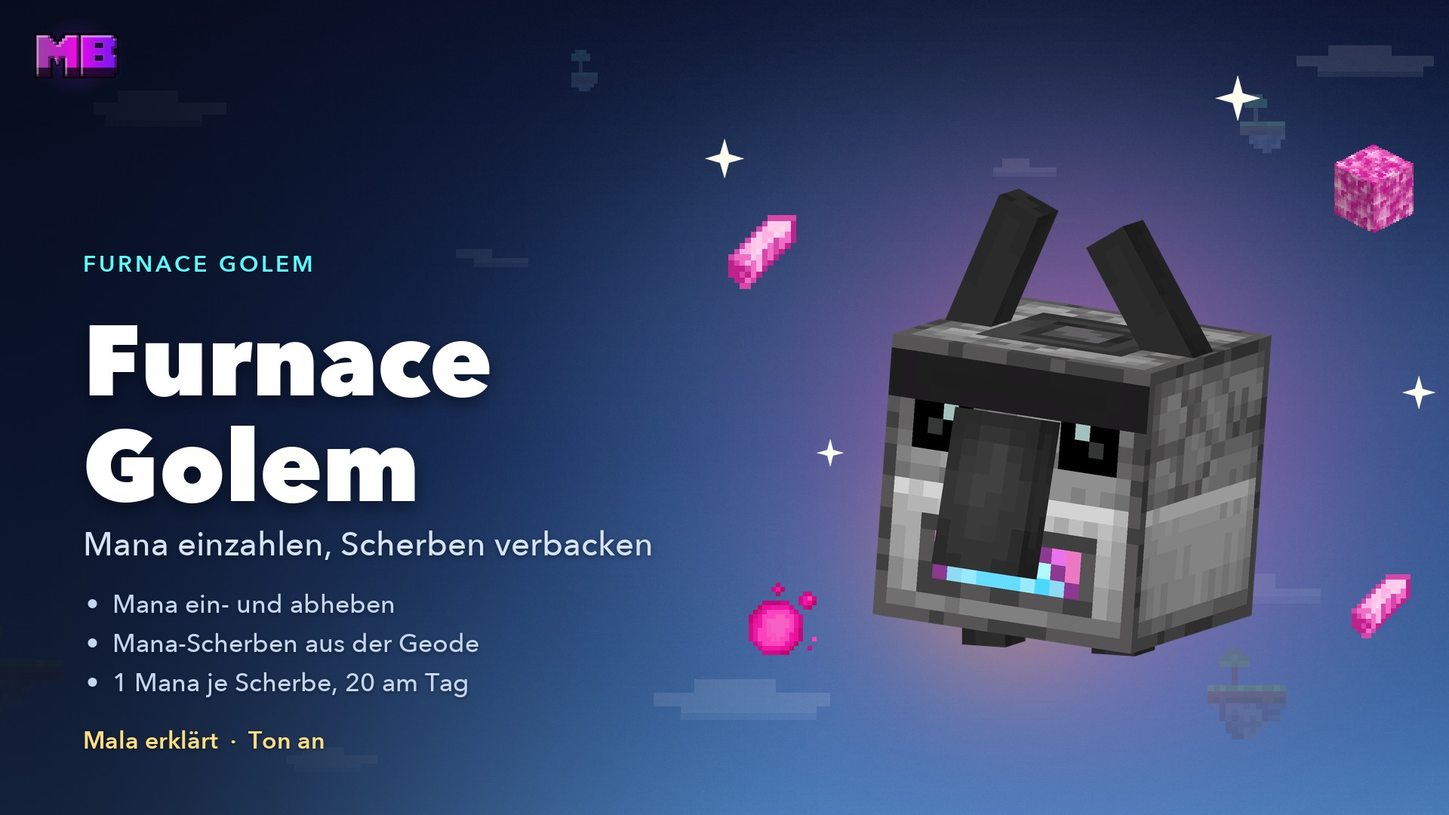
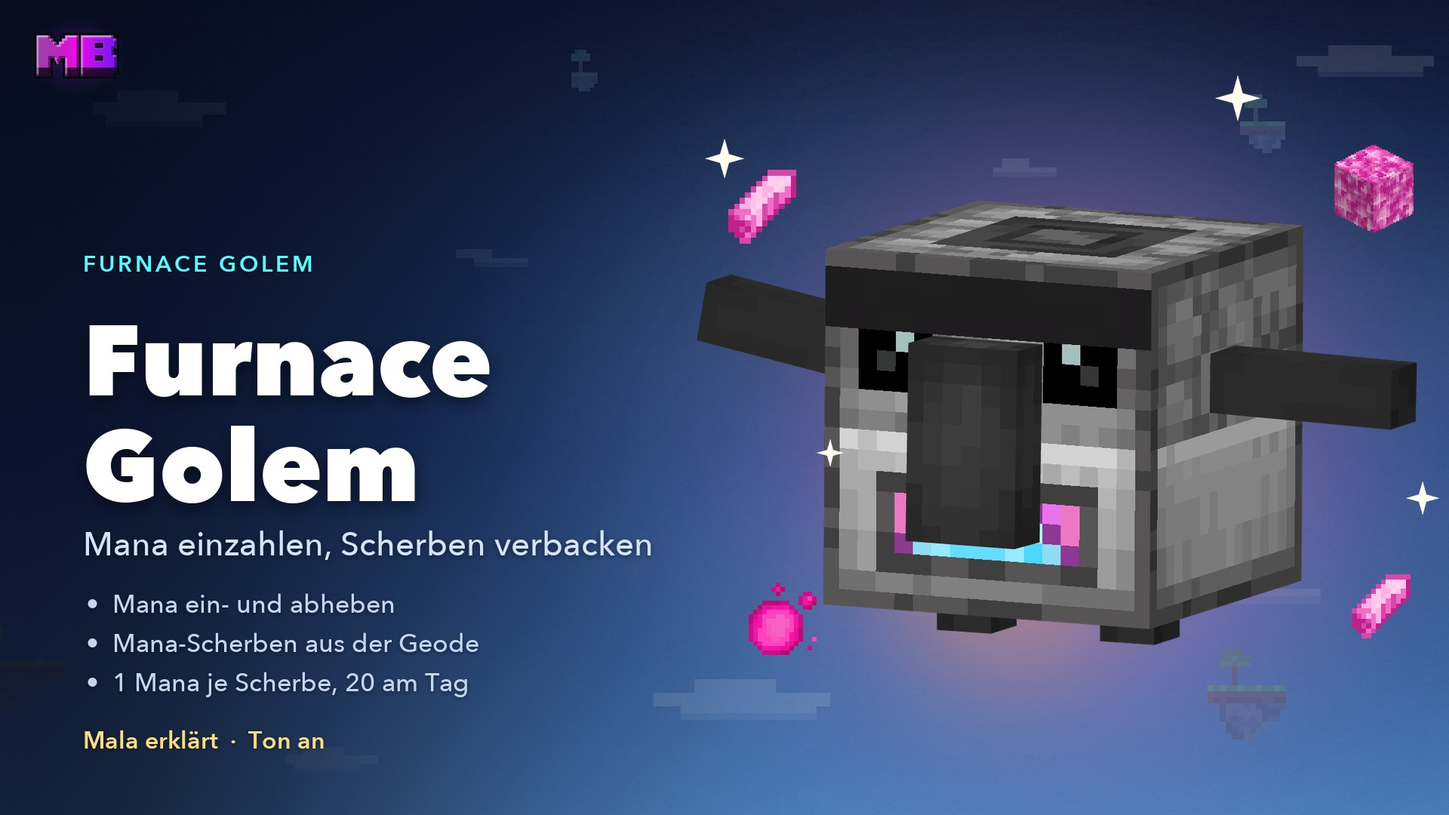
docs(golem): keine Kopf-Truhe mehr – Truhe zwei Blöcke neben ihm, Ring frei (DE/EN)
Stand MBSkyManager cc6cbf99, Pool 52240277 (docs/MANA.md, Der Furnace Golem):
- Arme stehen wieder seitlich ab, Klick irgendwo auf den Golem öffnet das Menü.
- Beim Bauen muss der Ring um Mana-Block und Ofen frei sein (build-ring),
  danach lässt sich dort nichts setzen.
- Truhe, Redstone-Truhe oder Fass genau zwei Blöcke weiter, gerade zur
  Seite, auf Fußhöhe, Platz dazwischen frei mit Boden; er läuft hin, öffnet
  den Deckel, greift hinein und geht zurück. Werte unverändert.
- Hinweis für ältere Golems: Truhe direkt daneben zählt nicht mehr,
  Scherben aus der alten Kopf-Truhe liegen oben auf ihm.
- Malas Sonderquest: Truhe zwei Blöcke neben dem geliehenen Golem.
- Mana-Items und Mitglieder wieder ohne Kopf-Truhe.
- Bauplan-Bild und Video-Cover mit dem neuen Modell; der Film selbst ist
  noch der alte (Hinweis auf der Seite, OFFEN im Drehbuch).

Changed region(s): [[0.4688, 0.1833, 1.0, 0.825], [0.9688, 0.5806, 1.0, 0.6417]]

diff --git a/tools/videos/cover.py b/tools/videos/cover.py
@@ -154,12 +154,12 @@ def furnace_golem():
     f = rahmen()
     licht(f, 1420, 600, 660, (255, 120, 200), 140)
     licht(f, 1330, 760, 300, (255, 170, 80), 90)
-    figur(f, "fgolem_cover", 14, 1420, 250, 620)
+    figur(f, "fgolem_cover", 1, 1400, 265, 590)
     scherbe, block, kugel = mc.icon16("mana_shard"), mc.icon16("mana_block"), mc.icon16("mana_orb")
-    for bild, cx, cy, g in ((scherbe, 1010, 330, 120), (block, 1820, 250, 120), (scherbe, 1830, 800, 104),
+    for bild, cx, cy, g in ((scherbe, 1010, 270, 120), (block, 1820, 250, 120), (scherbe, 1830, 800, 104),
                             (kugel, 1040, 820, 96)):
         skaliert(f, bild, cx, cy, g)
-    for cx, cy, g in ((960, 210, 26), (1880, 520, 22), (1640, 130, 30), (1100, 600, 18)):
+    for cx, cy, g in ((960, 210, 26), (1885, 660, 22), (1640, 130, 30), (1100, 600, 18)):
         funkeln(f, cx, cy, g, 1.0)
     text(f, "FURNACE GOLEM", ["Furnace", "Golem"], "Mana einzahlen, Scherben verbacken",
          ["Mana ein- und abheben", "Mana-Scherben aus der Geode", "1 Mana je Scherbe, 20 am Tag"])

diff --git a/tools/videos/filme/furnace_golem.py b/tools/videos/filme/furnace_golem.py
@@ -11,6 +11,13 @@ furnace-golem.*), Tageswechsel aus quests.reset (4 Uhr). Die Figur kommt aus mod
 (fgolem_*), die Bloecke als eigene Iso-Wuerfel aus den Texturen des Manager-Packs und des
 Client-Jars. Mala erklaert jede Szene (nur Deutsch).
 
+OFFEN (seit MBSkyManager cc6cbf99, 10.11.2026): Der Film ist veraltet. Die Arme stehen wieder
+seitlich ab, direkt um den Golem bleibt ein Ring frei, und die Truhe steht zwei Bloecke weiter;
+der Golem laeuft hin (walk, take_shard) und zurueck. Zu aendern: Effekte "zwischen den erhobenen
+Armen" (Maul, Faden), Szene 07 (Bild "direkt neben ihm", Tafeltext, Chatzeile built-reach) und
+die Stimme furnace_golem-truhe ("direkt neben ihn" -> neue Aufnahme noetig). Das Cover
+(cover.py) zeigt schon das neue Modell.
+
     python3 modelle.py fgolem_idle fgolem_play fgolem_start fgolem_work fgolem_take fgolem_done \\
         fgolem_wait fgolem_rest fgolem_greet fgolem_happy
     python3 bauen.py furnace_golem

diff --git a/sb/furnace-golem.md b/sb/furnace-golem.md
@@ -1,15 +1,15 @@
 ---
 description: >-
   Der Furnace Golem auf MegaBuild.de – Mana-Kugeln und Mana-Blöcke einzahlen,
-  Mana abheben und Mana-Scherben aus der Mana-Geode in der Truhe auf seinem
-  Kopf zu Mana verbacken. Bauen, Menü, Tageslimit, Malas Sonderquest und wo die
-  Scherben wachsen.
+  Mana abheben und Mana-Scherben aus der Mana-Geode zu Mana verbacken. Bauen,
+  Menü, die Truhe zwei Blöcke neben ihm, Tageslimit, Malas Sonderquest und wo
+  die Scherben wachsen.
 icon: fire
 ---
 
 # Furnace Golem & Mana-Geode
 
-Der **Furnace Golem** bringt dein Mana aufs Konto. Bei ihm zahlst du deine **Mana-Kugeln** und **Mana-Blöcke** ein, hebst Mana als Kugeln wieder ab, und er verbackt **Mana-Scherben** aus der **Mana-Geode** zu Mana – auch wenn du offline bist. Die Scherben legst du ihm einfach in die **Truhe auf seinem Kopf**. Du baust ihn dir selbst, so viele du willst.
+Der **Furnace Golem** bringt dein Mana aufs Konto. Bei ihm zahlst du deine **Mana-Kugeln** und **Mana-Blöcke** ein, hebst Mana als Kugeln wieder ab, und er verbackt **Mana-Scherben** aus der **Mana-Geode** zu Mana – auch wenn du offline bist. Die Scherben legst du in eine **Truhe zwei Blöcke neben ihm** – er läuft hin und holt sie sich selbst. Du baust ihn dir selbst, so viele du willst.
 
 <figure><img src="../.gitbook/assets/videos/furnace_golem.jpg" alt="Cover des Videos „Furnace Golem“ mit dem Golem, Mana-Scherbe, Mana-Block und Mana-Kugel"><figcaption><p>Das Video „Furnace Golem“ – Mala erklärt, Ton an</p></figcaption></figure>
 
@@ -18,7 +18,7 @@ Der **Furnace Golem** bringt dein Mana aufs Konto. Bei ihm zahlst du deine **Man
 {% endfile %}
 
 {% hint style="info" %}
-**Das Video zeigt noch den früheren Golem:** mit den Armen über dem Kopf und ohne Truhe darauf. Die Scherben kommen dort nur in eine Truhe neben ihm. Heute trägt er eine **Truhe auf dem Kopf**, in die du die Scherben direkt legst – siehe [Scherben verbacken](#scherben-verbacken).
+**Das Video zeigt noch den früheren Golem:** mit den Armen über dem Kopf und mit der Truhe direkt neben ihm. Heute stehen seine Arme seitlich ab, direkt um ihn herum bleibt ein Block frei, und die Truhe steht **zwei Blöcke** neben ihm – siehe [Scherben verbacken](#scherben-verbacken).
 {% endhint %}
 
 | | |
@@ -26,7 +26,7 @@ Der **Furnace Golem** bringt dein Mana aufs Konto. Bei ihm zahlst du deine **Man
 | **Bauen** | Mana-Block, darauf ein Ofen, obendrauf ein geschnitzter Kürbis oder eine Kürbislaterne |
 | **Einzahlen** | Mana-Kugeln (1 Mana) und Mana-Blöcke (17 Mana) |
 | **Abheben** | Nur als Mana-Kugeln, so viel ins Inventar passt |
-| **Scherben** | **1 Mana** je Mana-Scherbe, 2 Minuten Arbeit je Scherbe – in die Truhe auf seinem Kopf (27 Plätze) oder in eine Truhe neben ihm |
+| **Scherben** | **1 Mana** je Mana-Scherbe, 2 Minuten Arbeit je Scherbe – aus einer Truhe oder einem Fass zwei Blöcke neben ihm |
 | **Tageslimit** | **20 Scherben am Tag**, für alle deine Golems zusammen – neues Limit um 04:00 Uhr |
 
 ## Der Mana-Block
@@ -44,11 +44,13 @@ Der **Mana-Block** ist verdichtetes Mana und der Fuß jedes Furnace Golem. **8 M
 
 Setz den **Mana-Block**, darauf einen **Ofen** und zum Schluss einen **geschnitzten Kürbis** oder eine **Kürbislaterne** als Kopf. Erst der Kopf baut den Golem: Die drei Blöcke zerfallen, und an ihrer Stelle steht der Furnace Golem. Er schaut dorthin, wohin das Kürbisgesicht geschaut hat.
 
-So sieht er aus: ein grauer Ofenkörper mit Augen und dunkler Nase, oben in der Mitte eine kleine **Holztruhe mit rosa Riegel**, links und rechts davon zwei kurze Armstummel, die nach oben zeigen.
+So sieht er aus: ein grauer Ofenkörper mit Augen, dunkler Nase und rosa-blauem Maul, links und rechts zwei kurze dunkle Arme, die seitlich abstehen.
 
-<figure><img src="../.gitbook/assets/mana/bauplan-golem.png" alt="Mana-Block, Ofen und geschnitzter Kürbis übereinander, daneben der fertige Furnace Golem mit einer kleinen Holztruhe auf dem Kopf"><figcaption><p>Mana-Block, Ofen, Kürbis – und fertig ist der Furnace Golem mit der Truhe auf dem Kopf</p></figcaption></figure>
+<figure><img src="../.gitbook/assets/mana/bauplan-golem.png" alt="Mana-Block, Ofen und geschnitzter Kürbis übereinander, daneben der fertige Furnace Golem mit seitlich abstehenden Armen"><figcaption><p>Mana-Block, Ofen, Kürbis – und fertig ist der Furnace Golem</p></figcaption></figure>
 
 * **Nur im Überlebensmodus.** Auf fremden Inseln brauchst du das Recht **Bauen**, als Besucher geht es nicht.
+* **Rundherum ein Block Platz:** Direkt neben Mana-Block und Ofen – auch schräg an den Ecken – darf nichts stehen, Gras und Ähnliches ausgenommen. Sonst bleiben die drei Blöcke stehen, und eine Chatzeile sagt dir: „Um einen Furnace Golem muss ringsum ein Block Platz frei sein. Räum die Blöcke direkt neben Mana-Block und Ofen weg und setz den Kürbis neu.“
+* **Der Platz bleibt frei:** Steht der Golem, kannst du direkt neben ihn nichts mehr setzen und keinen Eimer ausgießen. Auch ein Spender setzt dort keinen Block, und ein Kolben schiebt nichts hinein. Er braucht den Platz für seinen Weg zur Truhe. Abbauen, was dort steht, geht weiter.
 * **Wer den Kopf setzt, ist der Erbauer.** Ihm gehört das Mana aus den Scherben.
 * Was im Ofen lag, fällt heraus.
 * **So viele Golems, wie du willst** – das Tageslimit für Scherben gilt für alle zusammen.
@@ -60,12 +62,12 @@ Der **Golem auf deinem Luftschiff** ist ein anderer: Er öffnet den [Skilltree](
 
 ## Das Menü
 
-Ein **Rechtsklick** auf seinen Ofenkörper öffnet sein Menü, und er grüßt dich. Klickst du weiter oben auf die Truhe auf seinem Kopf, öffnet sich stattdessen die Truhe – siehe [Scherben verbacken](#scherben-verbacken). Auf fremden Inseln brauchst du für beides das Recht **Behälter**, Besucher dürfen ihn nicht benutzen.
+Ein **Rechtsklick** irgendwo auf den Golem öffnet sein Menü, und er grüßt dich. Auf fremden Inseln brauchst du dafür das Recht **Behälter**, Besucher dürfen ihn nicht benutzen.
 
 * **Oben:** dein Mana-Konto, wie viele Mana-Kugeln und Mana-Blöcke du dabeihast, wie viele Kugeln du selbst abgebaut und noch nicht eingezahlt hast und wie viele fremde Kugeln heute noch gehen.
 * **Zweite Reihe – Einzahlen** (grüne Knöpfe): eine Kugel, einen Stapel, alle Kugeln, einen Mana-Block oder alle Mana-Blöcke. Die Zahl auf dem Knopf zeigt, wie viele ein Klick gerade einzahlt.
 * **Dritte Reihe – Abheben** (goldene Knöpfe): 1, 16 oder 64 Kugeln.
-* **Unten:** die **Mana-Scherben** in der Truhe auf seinem Kopf und in den Truhen neben ihm – ein Klick darauf öffnet die Kopf-Truhe –, seine **Arbeit** – wer ihn gebaut hat, wie weit die Scherbe ist und warum er gerade Pause macht – und das **Tageslimit**. Dazu **Abbauen** und **Schließen**.
+* **Unten:** die **Mana-Scherben** in den Truhen in seiner Reichweite – steht keine da, sagt dir die Karte, wohin eine gehört –, seine **Arbeit** – wer ihn gebaut hat, wie weit die Scherbe ist und warum er gerade Pause macht – und das **Tageslimit**. Dazu **Abbauen** und **Schließen**.
 
 ### Einzahlen
 
@@ -105,27 +107,42 @@ Die **Mana-Scherben** für den Golem wachsen in den Höhlen der Hauptinseln – 
 
 ## Scherben verbacken
 
-### Die Truhe auf seinem Kopf
+### Die Truhe zwei Blöcke neben ihm
 
-Mach einen **Rechtsklick oben auf den Golem**, auf die **Truhe auf seinem Kopf**. Sie öffnet sich direkt als Truhe mit **27 Plätzen**. Leg deine Mana-Scherben hinein – den Rest macht der Golem.
+Stell eine **Truhe**, eine **Redstone-Truhe** oder ein **Fass** genau **zwei Blöcke** neben den Golem und leg deine Mana-Scherben hinein – den Rest macht er selbst.
 
-* **Hinein passen nur Mana-Scherben.** Herausnehmen geht immer.
-* Klickst du weiter unten, auf den Ofen, öffnet sich wie bisher sein Menü (siehe oben).
-* Öffnen darfst du sie, wenn du kein Besucher bist und auf der Insel das Recht **Behälter** hast.
+* **Gerade zur Seite:** vor, hinter, links oder rechts von ihm, nicht schräg.
+* **Auf seiner Höhe:** auf derselben Ebene wie seine Füße, nicht einen Block höher oder tiefer.
+* **Der Platz dazwischen ist frei** – zwei Blöcke hoch –, und darunter ist fester Boden. Dort läuft er hin.
 
-### Eine Truhe daneben geht auch
+```
+ .  .  T  .  .
+ .  ○  ○  ○  .      G  der Furnace Golem
+ T  ○  G  ○  T      ○  bleibt frei, hier läuft er
+ .  ○  ○  ○  .      T  hier darf die Truhe stehen
+ .  .  T  .  .
+```
 
-Du kannst auch eine **Truhe**, eine **Redstone-Truhe** oder ein **Fass** waagerecht **direkt neben den Golem** stellen und die Scherben dort hineinlegen. Nicht als Scherbenkiste zählen Shop-Behälter, Clan-Projektkisten und eine Doppeltruhe, deren andere Hälfte nicht geladen oder gesperrt ist.
+* **Direkt neben ihm zählt keine Truhe** – dort bleibt der Platz ohnehin frei.
+* Nicht als Scherbentruhe zählen Shop-Behälter, Clan-Projektkisten und eine Doppeltruhe, deren andere Hälfte nicht geladen oder gesperrt ist.
+* Du kannst auf allen vier Seiten eine Truhe aufstellen – ist eine leer, holt er sich die Scherben aus der nächsten.
+* Fällt Sand oder Kies zwischen ihn und die Truhe, räum ihn weg – sonst kommt er nicht hin.
+
+Steht keine Truhe richtig, zeigt sein Menü bei den Scherben: „Keine Truhe und kein Fass in Reichweite. Stell eine zwei Blöcke neben ihn, auf seine Höhe, den Platz dazwischen frei.“
 
 ### So backt er
 
-1. Der Golem nimmt sich **eine Scherbe** – zuerst aus der Truhe auf seinem Kopf: Der Deckel geht auf, und er greift mit beiden Armstummeln hinein. Ist sie leer, nimmt er die Scherbe aus einer Truhe neben sich. Hast du die Kopf-Truhe gerade offen, siehst du die Scherbe darin verschwinden.
-2. Er arbeitet **2 Minuten** daran – rosa Mana glimmt an seinem Ofenmaul, über der Truhe steigt ein heller Faden auf, und rosa Mana-Staub windet sich um ihn nach oben. Dazu klingt es leise wie Amethyst.
-3. Dann bekommt der **Erbauer 1 Mana** aufs Konto, auch wenn er gerade offline ist. Danach nimmt der Golem die nächste Scherbe.
+1. Der Golem holt sich **eine Scherbe**: Er läuft zur Truhe, dreht sich zur Seite, öffnet den Deckel und greift hinein. Dann geht er zurück an seinen Platz.
+2. Er arbeitet **2 Minuten** daran – sein Ofenmaul glimmt rosa, über seinem Kopf steigt ein heller Faden auf, und rosa Mana-Staub windet sich um ihn nach oben. Dazu klingt es leise wie Amethyst.
+3. Dann bekommt der **Erbauer 1 Mana** aufs Konto, auch wenn er gerade offline ist. Danach holt der Golem die nächste Scherbe.
 
 * **Tageslimit: 20 Scherben** je Erbauer und Tag, über alle seine Golems und Inseln zusammen. Ist es voll, döst der Golem bis zum Tageswechsel um **04:00 Uhr**. Das Limit für Aktionen berührt das nicht.
-* **Er arbeitet nur, solange die Insel geladen ist.** Ohne Scherbe wartet er und schaut sich um.
+* **Er arbeitet nur, solange die Insel geladen ist.** Ohne Truhe in Reichweite oder ohne Scherbe wartet er und schaut sich um.
 * Scherben hineinlegen darf jeder, der an die Truhe darf – das Mana geht immer an den Erbauer.
+
+{% hint style="warning" %}
+**Golem von vor dem Update?** Eine Truhe direkt neben ihm zählt nicht mehr – stell sie zwei Blöcke weiter, sonst macht er Pause. Was schon direkt neben ihm steht, darf dort bleiben – nur zwischen ihm und seiner Truhe muss der Platz frei sein. Hattest du Scherben in der Truhe auf seinem Kopf, liegen sie nach dem Update oben auf ihm und verschwinden nicht – heb sie auf und leg sie in die Truhe.
+{% endhint %}
 
 ## Abbauen
 
@@ -133,7 +150,8 @@ Im Menü auf **Abbauen** klicken und bestätigen.
 
 * Nur mit dem Recht **Bauen**, nicht als Besucher, und im Überlebens- oder Kreativmodus.
 * Im Überlebensmodus bekommst du **Kopf, Ofen und Mana-Block** zurück.
-* **Die Scherben aus seiner Truhe** und eine Scherbe, an der er gerade arbeitet, fallen immer auf den Boden – auch im Kreativmodus. Sie landen genau am Golem und fliegen nicht herum, damit am Inselrand nichts in die Leere fällt. Liegen Scherben in seiner Truhe, sagen dir Knopf und Rückfrage das vorher.
+* **Eine Scherbe, an der er gerade arbeitet,** fällt immer auf den Boden – auch im Kreativmodus. Sie landet genau am Golem und fliegt nicht herum, damit am Inselrand nichts in die Leere fällt.
+* Die Truhe zwei Blöcke neben ihm bleibt stehen, wie sie ist.
 * Rechnet er gerade eine Scherbe ab, versuch es einen Moment später noch einmal.
 * An deinem Konto ändert das Abbauen nichts.
 
@@ -145,20 +163,20 @@ Einmal führt dir **Mala** einen Furnace Golem vor – mit Stimme und Untertitel
 * **Für wen:** einmal je Spieler und nur für die Spieler der Insel – den Besitzer, Mitglieder mit **Betreten** und auf einer Clan-Insel den Clan. Gäste und Zuschauer bekommen sie nicht, siehe [Reisen & Zuschauen](reisen.md#bewohner-auf-fremden-inseln).
 * **Wo:** auf der Startinsel, 5 bis 12 Blöcke vom Spawn. Eine Chatzeile nennt dir Richtung und Koordinaten, und der Pfeil im Questkasten zeigt dir den Weg.
 
-Mala wartet dort mit einem **geliehenen Golem**, der die Truhe schon auf dem Kopf trägt. Kommst du auf 6 Blöcke heran, erklärt sie dir in sieben Zeilen:
+Mala wartet dort mit einem **geliehenen Golem** und einer Truhe zwei Blöcke neben ihm. Kommst du auf 6 Blöcke heran, erklärt sie dir in sieben Zeilen:
 
 1. Sie stellt dir den Furnace Golem vor.
-2. Mana-Scherben legst du in die Truhe auf seinem Kopf – eine Scherbe schwebt von Mala hinein, und der Deckel geht auf.
+2. Mana-Scherben legst du in eine Truhe zwei Blöcke neben ihm – eine Scherbe schwebt von Mala in die Truhe, und der Golem läuft hin und holt sie sich.
 3. Er backt jede Scherbe eine Weile und schreibt dir dafür Mana gut.
 4. Bei ihm zahlst du deine Mana-Kugeln aufs Konto ein.
 5. So baust du dir einen eigenen: Auf einem kleinen **Schrein** erscheinen **Mana-Block, Ofen und geschnitzter Kürbis** übereinander, jeder genau dann, wenn Mala ihn nennt.
 6. Den Mana-Block craftest du aus acht Mana-Kugeln rund um eine Mana-Ladung.
 7. Der Golem war nur geliehen und verschwindet in rosa Funken.
 
-Danach ist die Quest geschafft, und eine Chatzeile fasst noch einmal zusammen, wie du deinen eigenen Golem baust und befüllst.
+Danach ist die Quest geschafft, und eine Chatzeile fasst noch einmal zusammen, wie du deinen eigenen Golem baust und wohin seine Truhe gehört.
 
 * Gehst du mittendrin **weiter als 24 Blöcke** weg, bricht die Quest ab. Kommst du wieder heran, beginnt sie von vorn.
-* **Das alles siehst nur du:** Mala, den Golem, den Schrein und die Scherbe. An der Insel ändert sich nichts.
+* **Das alles siehst nur du:** Mala, den Golem, die Truhe, den Schrein und die Scherbe. Die Truhe verschwindet mit dem Golem, an der Insel ändert sich nichts.
 
 ## Handel
 

diff --git a/en/furnace-golem.md b/en/furnace-golem.md
@@ -1,15 +1,15 @@
 ---
 description: >-
   The Furnace Golem on MegaBuild.de – deposit Mana orbs and Mana Blocks,
-  withdraw Mana and turn Mana Shards from the Mana Geode into Mana in the chest
-  on its head. Building, menu, daily limit, Mala's special quest and where the
-  shards grow.
+  withdraw Mana and turn Mana Shards from the Mana Geode into Mana. Building,
+  menu, the chest two blocks away, daily limit, Mala's special quest and where
+  the shards grow.
 icon: fire
 ---
 
 # Furnace Golem & Mana Geode
 
-The **Furnace Golem** puts your Mana into your account. At the golem you deposit your **Mana orbs** and **Mana Blocks**, withdraw Mana as orbs, and it turns **Mana Shards** from the **Mana Geode** into Mana – even while you're offline. You simply put the shards into the **chest on its head**. You build it yourself, as many as you like.
+The **Furnace Golem** puts your Mana into your account. At the golem you deposit your **Mana orbs** and **Mana Blocks**, withdraw Mana as orbs, and it turns **Mana Shards** from the **Mana Geode** into Mana – even while you're offline. You put the shards into a **chest two blocks away from it** – it walks over and fetches them itself. You build it yourself, as many as you like.
 
 <figure><img src="../.gitbook/assets/videos/furnace_golem.jpg" alt="Cover of the video “Furnace Golem” with the golem, a Mana Shard, a Mana Block and a Mana orb"><figcaption><p>The video “Furnace Golem” – Mala explains, in German</p></figcaption></figure>
 
@@ -18,7 +18,7 @@ The **Furnace Golem** puts your Mana into your account. At the golem you deposit
 {% endfile %}
 
 {% hint style="info" %}
-**The video still shows the earlier golem:** with its arms raised over its head and no chest on top. In the video the shards only go into a chest next to it. Today it carries a **chest on its head** that you put the shards straight into – see [Turning shards into Mana](#turning-shards-into-mana).
+**The video still shows the earlier golem:** with its arms raised over its head and the chest right next to it. Today its arms stick out sideways, one block of space stays free all around it, and the chest stands **two blocks** away from it – see [Turning shards into Mana](#turning-shards-into-mana).
 {% endhint %}
 
 | | |
@@ -26,7 +26,7 @@ The **Furnace Golem** puts your Mana into your account. At the golem you deposit
 | **Building** | A Mana Block, a furnace on top, then a carved pumpkin or a jack o'lantern |
 | **Deposit** | Mana orbs (1 Mana) and Mana Blocks (17 Mana) |
 | **Withdraw** | Only as Mana orbs, as much as fits into your inventory |
-| **Shards** | **1 Mana** per Mana Shard, 2 minutes of work per shard – into the chest on its head (27 slots) or a chest next to it |
+| **Shards** | **1 Mana** per Mana Shard, 2 minutes of work per shard – from a chest or barrel two blocks away from it |
 | **Daily limit** | **20 shards a day** for all your golems together – new limit at 04:00 |
 
 ## The Mana Block
@@ -44,11 +44,13 @@ The **Mana Block** is compressed Mana and the base of every Furnace Golem. **8 M
 
 Place the **Mana Block**, a **furnace** on top of it and finally a **carved pumpkin** or a **jack o'lantern** as the head. Only the head builds the golem: the three blocks fall apart and the Furnace Golem stands in their place. It faces the way the pumpkin face was pointing.
 
-This is what it looks like: a grey furnace body with eyes and a dark nose, a small **wooden chest with a pink latch** on top in the middle, and two short arm stubs pointing up on either side of it.
+This is what it looks like: a grey furnace body with eyes, a dark nose and a pink-and-blue mouth, and two short dark arms sticking out sideways.
 
-<figure><img src="../.gitbook/assets/mana/bauplan-golem.png" alt="Mana Block, furnace and carved pumpkin stacked, next to them the finished Furnace Golem with a small wooden chest on its head"><figcaption><p>Mana Block, furnace, pumpkin – and the Furnace Golem with the chest on its head is ready</p></figcaption></figure>
+<figure><img src="../.gitbook/assets/mana/bauplan-golem.png" alt="Mana Block, furnace and carved pumpkin stacked, next to them the finished Furnace Golem with its arms sticking out sideways"><figcaption><p>Mana Block, furnace, pumpkin – and the Furnace Golem is ready</p></figcaption></figure>
 
 * **Survival mode only.** On other islands you need the **Build** right; visitors can't build one.
+* **One block of space all around:** nothing may stand right next to the Mana Block and the furnace – diagonally at the corners too – except grass and the like. Otherwise the three blocks stay as they are, and a chat line tells you: “A Furnace Golem needs one block of free space all around it. Clear the blocks right next to the mana block and furnace and place the pumpkin again.”
+* **The space stays free:** once the golem stands, you can't place anything right next to it or empty a bucket there. A dispenser won't place a block there either, and a piston won't push anything in. The golem needs the space for its walk to the chest. Mining whatever is there still works.
 * **Whoever places the head is the builder.** The Mana from the shards belongs to them.
 * Whatever was in the furnace drops out.
 * **As many golems as you like** – the daily shard limit counts for all of them together.
@@ -60,12 +62,12 @@ The **golem on your airship** is a different one: it opens the [skill tree](skil
 
 ## The menu
 
-A **right-click** on its furnace body opens its menu, and it greets you. If you click higher up, on the chest on its head, the chest opens instead – see [Turning shards into Mana](#turning-shards-into-mana). On other islands you need the **Containers** right for both; visitors can't use it.
+A **right-click** anywhere on the golem opens its menu, and it greets you. On other islands you need the **Containers** right for that; visitors can't use it.
 
 * **Top:** your Mana account, how many Mana orbs and Mana Blocks you carry, how many orbs you mined yourself and haven't deposited yet, and how many foreign orbs you can still deposit today.
 * **Second row – Deposit** (green buttons): one orb, a stack, all orbs, one Mana Block or all Mana Blocks. The number on the button shows how many one click deposits right now.
 * **Third row – Withdraw** (gold buttons): 1, 16 or 64 orbs.
-* **Bottom:** the **Mana shards** in the chest on its head and in the chests next to it (a click on this card opens the head chest), its **Work** – who built it, how far the shard is and why it's taking a break – and the **Daily limit**. Plus **Dismantle** and **Close**.
+* **Bottom:** the **Mana shards** in the chests within its reach – if there's none, the card tells you where one goes –, its **Work** – who built it, how far the shard is and why it's taking a break – and the **Daily limit**. Plus **Dismantle** and **Close**.
 
 ### Deposit
 
@@ -105,27 +107,42 @@ The **Mana Shards** for the golem grow in the caves of the main islands – on *
 
 ## Turning shards into Mana
 
-### The chest on its head
+### The chest two blocks away
 
-**Right-click the top of the golem**, the **chest on its head**. It opens straight away as a chest with **27 slots**. Put your Mana Shards in – the golem does the rest.
+Put a **chest**, a **trapped chest** or a **barrel** exactly **two blocks** away from the golem and put your Mana Shards in it – the golem does the rest.
 
-* **Only Mana Shards fit in.** You can always take things out.
-* If you click lower down, on the furnace, its menu opens as before (see above).
-* You may open it if you're not a visitor and have the **Containers** right on the island.
+* **Straight to one side:** in front of it, behind it, to its left or right, not diagonally.
+* **At its height:** on the same level as its feet, not one block higher or lower.
+* **The space in between is free** – two blocks high – with solid ground below. That's where it walks.
 
-### A chest next to it works too
+```
+ .  .  C  .  .
+ .  ○  ○  ○  .      G  the Furnace Golem
+ C  ○  G  ○  C      ○  stays free, it walks here
+ .  ○  ○  ○  .      C  the chest may stand here
+ .  .  C  .  .
+```
 
-You can also put a **chest**, a **trapped chest** or a **barrel** horizontally **right next to the golem** and put the shards in there. Shop containers, clan project chests and a double chest whose other half isn't loaded or is locked don't count as shard chests.
+* **A chest right next to it doesn't count** – that space stays free anyway.
+* Shop containers, clan project chests and a double chest whose other half isn't loaded or is locked don't count as shard chests.
+* You can put a chest on all four sides – if one is empty, it fetches the shards from the next.
+* If sand or gravel falls between it and the chest, clear it away – otherwise it can't get there.
+
+If no chest stands in the right place, its menu says at the shards: “No chest and no barrel within reach. Put one two blocks from him, at his height, with the space in between free.”
 
 ### How it bakes
 
-1. The golem takes **one shard** – first from the chest on its head: the lid opens and it reaches in with both arm stubs. If that one is empty, it takes the shard from a chest next to it. If you have the head chest open at that moment, you see the shard disappear from it.
-2. It works on it for **2 minutes** – pink Mana glows at its furnace mouth, a bright strand rises above the chest, and pink mana dust winds its way up around it, with a soft amethyst chime.
-3. Then the **builder gets 1 Mana** in their account, even while offline. After that the golem takes the next shard.
+1. The golem fetches **one shard**: it walks to the chest, turns sideways, opens the lid and reaches in. Then it walks back to its spot.
+2. It works on it for **2 minutes** – its furnace mouth glows pink, a bright strand rises above its head, and pink mana dust winds its way up around it, with a soft amethyst chime.
+3. Then the **builder gets 1 Mana** in their account, even while offline. After that the golem fetches the next shard.
 
 * **Daily limit: 20 shards** per builder and day, across all their golems and islands. When it's full, the golem dozes until the daily reset at **04:00**. This doesn't touch the daily limit for actions.
-* **It only works while the island is loaded.** Without a shard it waits and looks around.
+* **It only works while the island is loaded.** Without a chest in reach or without a shard it waits and looks around.
 * Anyone who may open the chest may put shards into it – the Mana always goes to the builder.
+
+{% hint style="warning" %}
+**Golem from before the update?** A chest right next to it doesn't count any more – move it two blocks out, or it takes a break. Whatever already stands right next to it may stay – only the space between it and its chest has to be free. If you had shards in the chest on its head, they lie on top of it after the update and don't despawn – pick them up and put them into the chest.
+{% endhint %}
 
 ## Dismantling
 
@@ -133,7 +150,8 @@ Click **Dismantle** in the menu and confirm.
 
 * Only with the **Build** right, not as a visitor, and in survival or creative mode.
 * In survival mode you get the **head, furnace and Mana Block** back.
-* **The shards from its chest** and a shard it's working on always drop to the ground – in creative mode too. They land right at the golem and don't scatter, so nothing falls into the void at the edge of the island. If there are shards in its chest, the button and the confirmation tell you beforehand.
+* **A shard it's working on** always drops to the ground – in creative mode too. It lands right at the golem and doesn't scatter, so nothing falls into the void at the edge of the island.
+* The chest two blocks away stays as it is.
 * If it's settling a shard right now, try again a moment later.
 * Dismantling doesn't change your account.
 
@@ -145,20 +163,20 @@ Once, **Mala** shows you a Furnace Golem – with voice and subtitles.
 * **Who:** once per player and only for the island's own players – the owner, members with **Join** and, on a clan island, the clan. Guests and spectators don't get it, see [Travel & Watching](travel.md#residents-on-other-islands).
 * **Where:** on the starting island, 5 to 12 blocks from the spawn. A chat line tells you the direction and coordinates, and the arrow in the quest box shows you the way.
 
-Mala waits there with a **borrowed golem** that already carries the chest on its head. Once you're within 6 blocks, she explains in seven lines:
+Mala waits there with a **borrowed golem** and a chest two blocks away from it. Once you're within 6 blocks, she explains in seven lines:
 
 1. She introduces the Furnace Golem.
-2. You put Mana Shards into the chest on its head – a shard floats in from Mala and the lid opens.
+2. You put Mana Shards into a chest two blocks away from it – a shard floats from Mala into the chest, and the golem walks over and fetches it.
 3. It bakes each shard for a while and credits you with Mana for it.
 4. It's also where you deposit your Mana orbs into your account.
 5. How to build your own: on a small **shrine**, a **Mana Block, a furnace and a carved pumpkin** appear one on top of the other, each right when Mala names it.
 6. You craft the Mana Block from eight Mana orbs around a Mana Charge.
 7. The golem was only on loan and vanishes in pink sparks.
 
-After that the quest is done, and a chat line sums up once more how to build and fill your own golem.
+After that the quest is done, and a chat line sums up once more how to build your own golem and where its chest goes.
 
 * If you walk **more than 24 blocks** away in the middle of it, the quest stops. When you come back, it starts over.
-* **Only you see it all:** Mala, the golem, the shrine and the shard. Nothing changes on the island.
+* **Only you see it all:** Mala, the golem, the chest, the shrine and the shard. The chest vanishes with the golem; nothing changes on the island.
 
 ## Trading
 

diff --git a/sb/mitglieder.md b/sb/mitglieder.md
@@ -40,7 +40,7 @@ Einladen dürfen der Besitzer und Mitglieder mit dem Recht **Mitglieder**.
 | Recht | Was es erlaubt |
 | ----- | -------------- |
 | **Bauen** | Blöcke setzen und abbauen, Eimer, Feuer, Rüstungsständer, Rahmen, Schilder |
-| **Behälter** | Kisten, Fässer, Öfen, Trichter, Braustände, Lesepulte, das Menü und die Truhe auf dem Kopf des [Furnace Golem](furnace-golem.md) |
+| **Behälter** | Kisten, Fässer, Öfen, Trichter, Braustände, Lesepulte, das Menü des [Furnace Golem](furnace-golem.md) |
 | **Schalter** | Türen, Falltüren, Zauntore, Knöpfe, Hebel, Druckplatten |
 | **Tiere** | Tiere schlagen, füttern, züchten, anleinen, scheren, melken, reiten, [Forestlinge](forestlinge.md#an-der-leine) an die Leine nehmen und losbinden |
 | **Ernten** | Reife Pflanzen ernten und neu pflanzen |
@@ -55,7 +55,7 @@ Dazu kommt der Schalter **Betreten**: Ist er aus, kommt das Mitglied nur noch ü
 
 * Fehlt dir ein Recht, sagt dir die Anzeige über der Hotbar, welches – zum Beispiel „Hier darfst du nicht bauen.“
 * Eine Kiste, einen Ofen oder einen anderen Block mit Inhalt abbauen braucht **Bauen und Behälter**.
-* Einen [Furnace Golem](furnace-golem.md) bauen oder abbauen braucht **Bauen**, sein Menü oder seine Truhe öffnen **Behälter**.
+* Einen [Furnace Golem](furnace-golem.md) bauen oder abbauen braucht **Bauen**, sein Menü öffnen **Behälter**.
 * **Shop-Behälter** öffnen nur der Shop-Besitzer, der Inselbesitzer und das Team – das Recht Behälter reicht dafür nicht.
 * **Fliegen** mit dem `/fly` deines Rangs geht nur, wo du das Recht **Bauen** hast.
 * Als Besitzer hast du immer alle Rechte. Deine Insel **löschen** kannst nur du, in der Lobby.

diff --git a/en/members.md b/en/members.md
@@ -40,7 +40,7 @@ The owner and members with the **Members** right can invite.
 | Right | What it allows |
 | ----- | -------------- |
 | **Build** | Place and break blocks, buckets, fire, armour stands, frames, signs |
-| **Containers** | Chests, barrels, furnaces, hoppers, brewing stands, lecterns, the [Furnace Golem](furnace-golem.md) menu and the chest on its head |
+| **Containers** | Chests, barrels, furnaces, hoppers, brewing stands, lecterns, the [Furnace Golem](furnace-golem.md) menu |
 | **Switches** | Doors, trapdoors, fence gates, buttons, levers, pressure plates |
 | **Animals** | Hit, feed, breed, leash, shear, milk and ride animals, put [Forestlings](forestlings.md#on-a-lead) on a lead and untie them |
 | **Harvest** | Harvest ripe crops and replant |
@@ -55,7 +55,7 @@ On top of that there's the **Join** switch: if it's off, the member only gets on
 
 * If you're missing a right, the display above the hotbar tells you which one – for example “You may not build here.”
 * Breaking a chest, furnace or any other block with contents needs **Build and Containers**.
-* Building or dismantling a [Furnace Golem](furnace-golem.md) needs **Build**, opening its menu or its chest needs **Containers**.
+* Building or dismantling a [Furnace Golem](furnace-golem.md) needs **Build**, opening its menu needs **Containers**.
 * **Shop containers** can only be opened by the shop owner, the island owner and the team – the Containers right isn't enough.
 * **Flying** with your rank's `/fly` only works where you have the **Build** right.
 * As the owner you always have all rights. Only you can **delete** your island, in the lobby.

diff --git a/sb/mana-items.md b/sb/mana-items.md
@@ -76,7 +76,7 @@ Hast du einen Mob mit einer leeren [Mobplate](mobplates.md) markiert, nimmt ihm 
 
 Mana-Scherben wachsen in der **Mana-Geode**: Auf dem **Knospenden Mana-Amethyst** am Boden der Höhlen wächst ein Mana-Kristall in vier Stufen. Nur der **ausgewachsene Kristall** gibt beim Abbauen eine Mana-Scherbe – das dauert im Schnitt etwa 40 Minuten.
 
-Leg die Scherben in die Truhe auf dem Kopf eines [Furnace Golem](furnace-golem.md#scherben-verbacken) – oder in eine Truhe oder ein Fass neben ihm. Er macht aus jeder Scherbe in 2 Minuten **1 Mana** für seinen Erbauer, bis zu 20 Scherben am Tag. Wo die Geode liegt und worauf du achten musst, steht unter [Furnace Golem & Mana-Geode](furnace-golem.md#die-mana-geode).
+Leg die Scherben in eine Truhe oder ein Fass zwei Blöcke neben einem [Furnace Golem](furnace-golem.md#scherben-verbacken) – er läuft hin und holt sie sich. Er macht aus jeder Scherbe in 2 Minuten **1 Mana** für seinen Erbauer, bis zu 20 Scherben am Tag. Wo die Geode liegt und worauf du achten musst, steht unter [Furnace Golem & Mana-Geode](furnace-golem.md#die-mana-geode).
 
 ## Handel
 

diff --git a/en/mana-items.md b/en/mana-items.md
@@ -75,7 +75,7 @@ Once you've marked a mob with an empty [Mobplate](mobplates.md), right-clicking 
 
 Mana Shards grow in the **Mana Geode**: a mana crystal grows in four stages on **Budding Mana Amethyst** on the cave floor. Only the **full-grown crystal** gives a Mana Shard when you mine it – that takes about 40 minutes on average.
 
-Put the shards into the chest on a [Furnace Golem](furnace-golem.md#turning-shards-into-mana)'s head – or into a chest or barrel next to it. It turns each shard into **1 Mana** for its builder in 2 minutes, up to 20 shards a day. Where the geode is and what to watch out for is under [Furnace Golem & Mana Geode](furnace-golem.md#the-mana-geode).
+Put the shards into a chest or barrel two blocks away from a [Furnace Golem](furnace-golem.md#turning-shards-into-mana) – it walks over and fetches them. It turns each shard into **1 Mana** for its builder in 2 minutes, up to 20 shards a day. Where the geode is and what to watch out for is under [Furnace Golem & Mana Geode](furnace-golem.md#the-mana-geode).
 
 ## Trading
 
